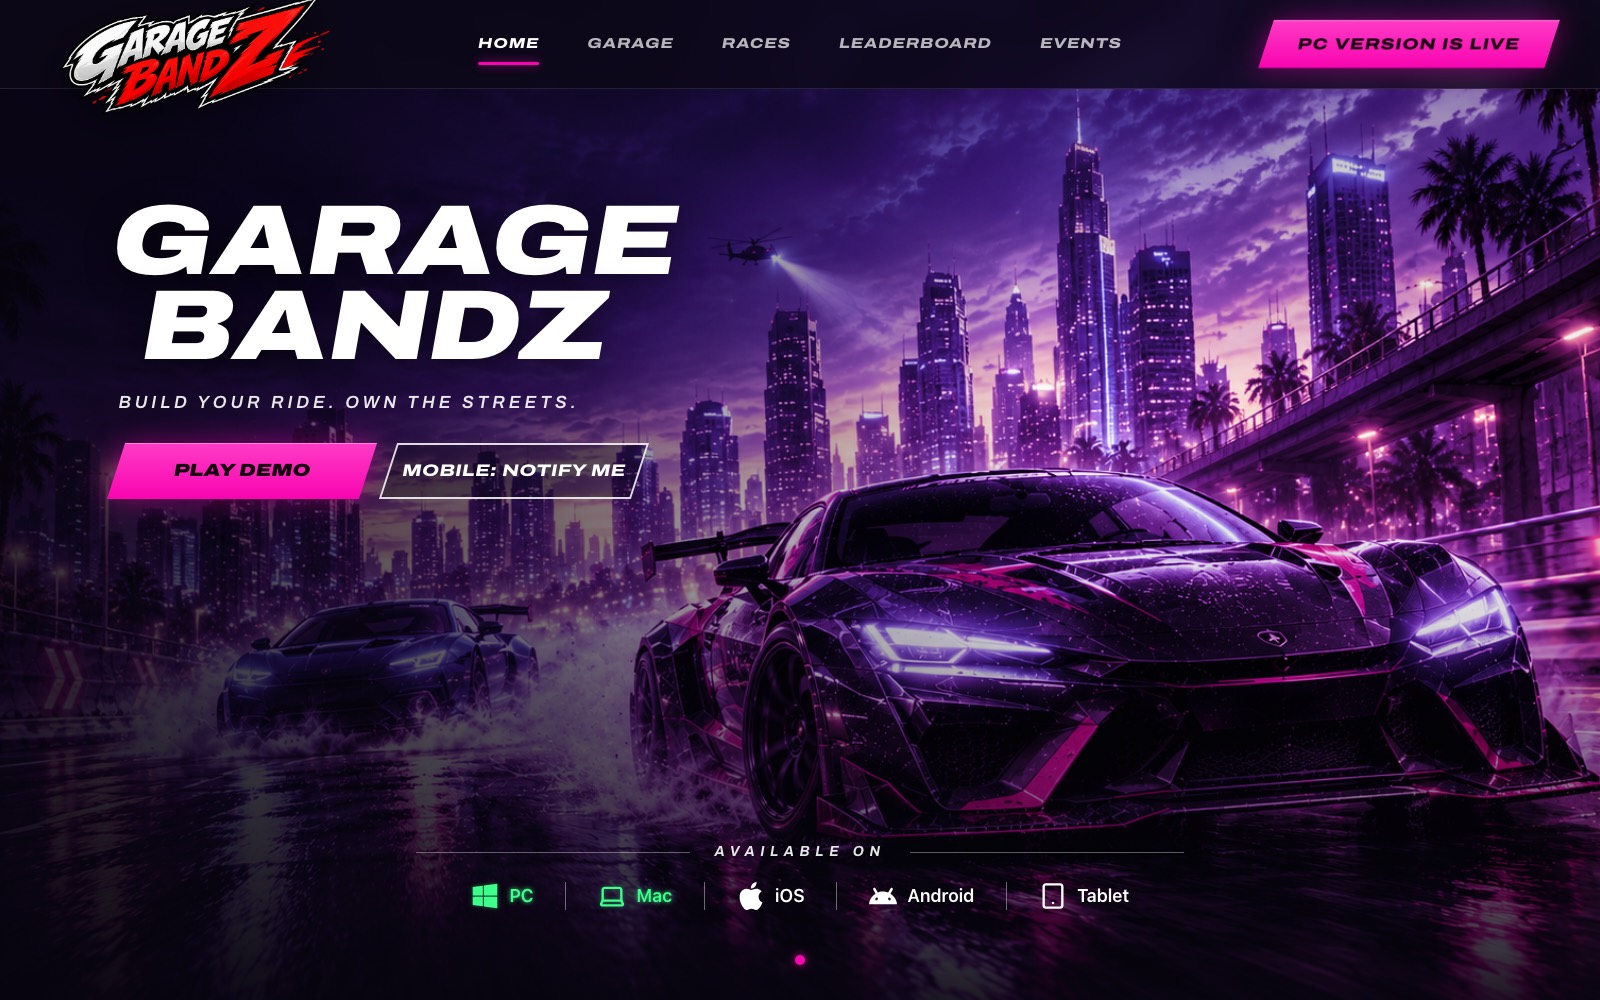
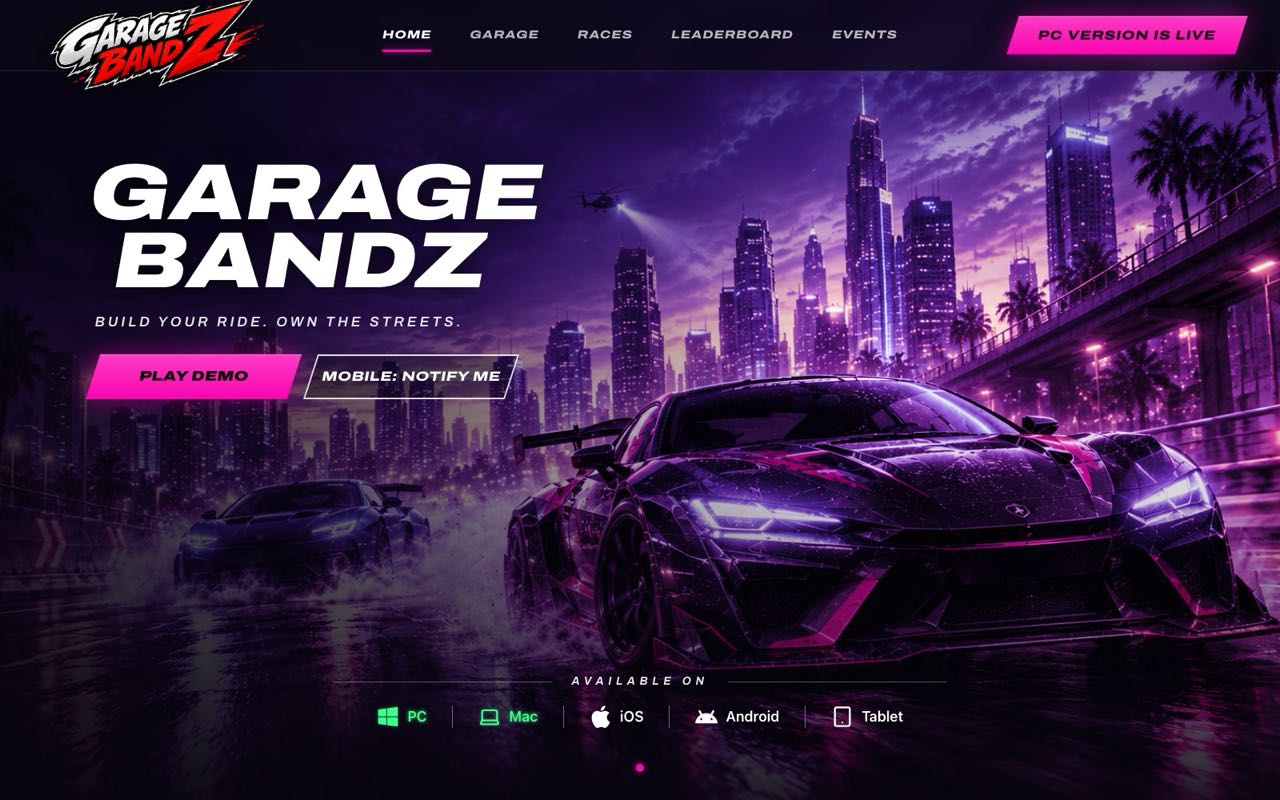
Make product shots appear promptly on slow mobile connections
GarageBandZ's image was the heaviest shot and loaded alongside the
9.6 MB COD trailer, leaving the panel blank for 20s+ after a tap on a
throttled phone connection.

- Resize garagebandz.jpg to 1280x800 (351 KB -> 144 KB)
- Load product shots eagerly instead of lazily
- Hold the trailer until the shots settle, with a 15s fallback

Changed region(s): [[0.0625, 0.0, 0.1875, 0.125], [0.875, 0.0312, 0.9062, 0.0625], [0.375, 0.875, 0.4062, 0.9062]]

diff --git a/public/index.html b/public/index.html
@@ -509,11 +509,11 @@
         </div>
         <div data-reveal class="plate relative min-h-[clamp(220px,42vh,440px)] overflow-hidden border border-hair">
           <video data-shot="cod" src="work/cod-trailer.mp4" poster="work/cod.jpg" muted loop playsinline preload="none" aria-label="Cash on Delivery trailer — styling the rider, then racing a delivery bike through Lagos traffic" class="feat-shot is-on"></video>
-          <img data-shot="garagebandz" src="work/garagebandz.jpg" alt="GarageBandZ website — neon street racing car in a night-time city" loading="lazy" decoding="async" class="feat-shot">
-          <img data-shot="pages" src="work/pages.jpg" alt="Pages storefront — footwear catalogue home page with a promoted sneaker banner" loading="lazy" decoding="async" class="feat-shot object-left">
-          <img data-shot="escobar" src="work/escobar.jpg" alt="Escobar website — gold Escobar by The Boss logo on a black page" loading="lazy" decoding="async" class="feat-shot">
-          <img data-shot="creekngreek" src="work/creekngreek.jpg" alt="Creek n Greek website — aerial view of the resort pool and lounge" loading="lazy" decoding="async" class="feat-shot object-top">
-          <img data-shot="signalface" src="work/signalface.jpg" alt="Signal Face app — For You video feed with the creator sidebar" loading="lazy" decoding="async" class="feat-shot object-left-top">
+          <img data-shot="garagebandz" src="work/garagebandz.jpg" alt="GarageBandZ website — neon street racing car in a night-time city" decoding="async" class="feat-shot">
+          <img data-shot="pages" src="work/pages.jpg" alt="Pages storefront — footwear catalogue home page with a promoted sneaker banner" decoding="async" class="feat-shot object-left">
+          <img data-shot="escobar" src="work/escobar.jpg" alt="Escobar website — gold Escobar by The Boss logo on a black page" decoding="async" class="feat-shot">
+          <img data-shot="creekngreek" src="work/creekngreek.jpg" alt="Creek n Greek website — aerial view of the resort pool and lounge" decoding="async" class="feat-shot object-top">
+          <img data-shot="signalface" src="work/signalface.jpg" alt="Signal Face app — For You video feed with the creator sidebar" decoding="async" class="feat-shot object-left-top">
           <span id="feat-cap" class="cap-fade absolute inset-x-0 bottom-0 z-[2] px-4 py-3.5 text-[10px] tracking-[.16em] uppercase">01 — cod.sagexlimited.com</span>
         </div>
       </div>
@@ -1336,15 +1336,31 @@
   // The COD trailer plays only while it is the featured project and the panel is on screen.
   // With reduced motion it never autoplays; the poster frame stays instead.
   var video = document.querySelector('#feat video'), inView = false;
+  // It also waits for the product shots, so its 9.6 MB download can't starve them on a slow
+  // connection and leave the plate blank when another row is tapped.
+  var shotsReady = false;
   function syncVideo() {
     if (!video) return;
-    if (!reduce && inView && active === video.dataset.shot) {
+    if (!reduce && shotsReady && inView && active === video.dataset.shot) {
       var pl = video.play(); if (pl && pl.catch) pl.catch(function () {});
     } else if (!video.paused) video.pause();
   }
   if (video && 'IntersectionObserver' in window) {
     new IntersectionObserver(function (es) { inView = es[0].isIntersecting; syncVideo(); }, { threshold: .25 })
       .observe(document.querySelector('#feat .plate'));
+  }
+
+  var pending = shots.filter(function (s) { return s.tagName === 'IMG' && !s.complete; });
+  function shotsSettled() { shotsReady = true; syncVideo(); }
+  if (!pending.length) shotsSettled();
+  else {
+    var left = pending.length;
+    pending.forEach(function (img) {
+      function done() { if (--left === 0) shotsSettled(); }
+      img.addEventListener('load', done, { once: true });
+      img.addEventListener('error', done, { once: true });
+    });
+    setTimeout(shotsSettled, 15000); // Very slow connection: don't hold the trailer back forever.
   }
 
   function show(key) {
